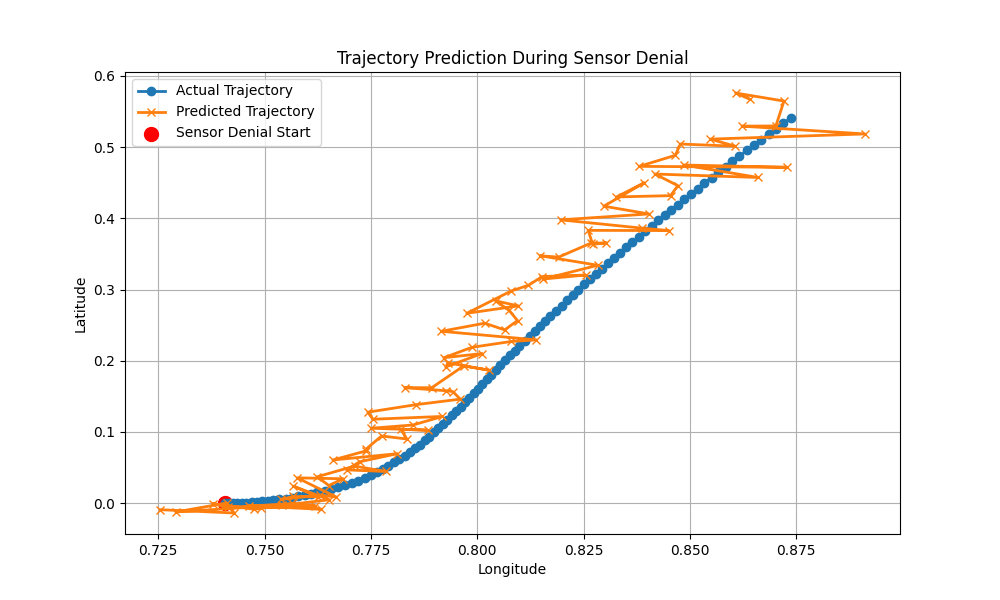
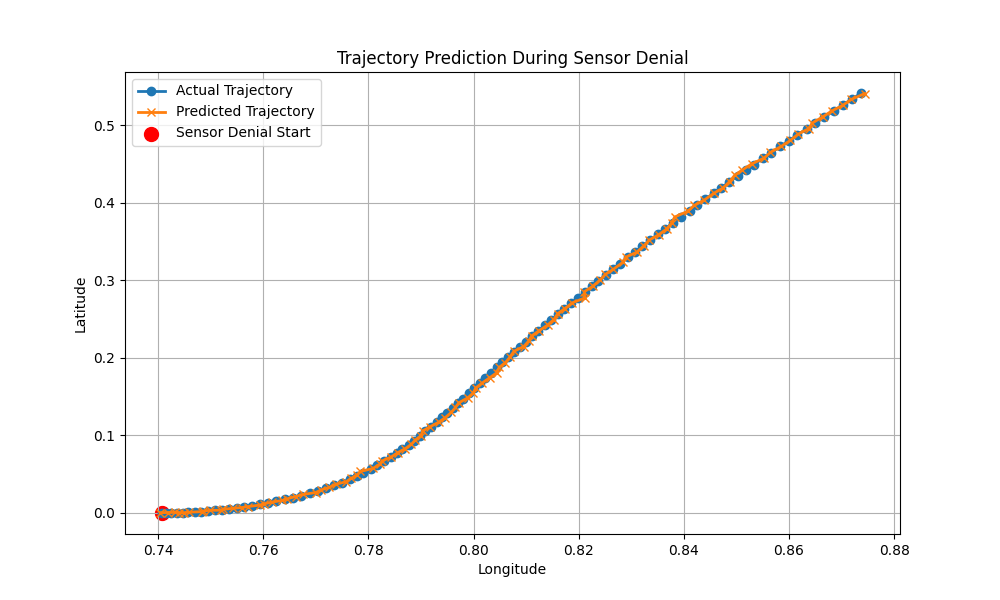
Add files via upload

diff --git a/train_lstm.py b/train_lstm.py
@@ -119,7 +119,7 @@ optimizer = torch.optim.Adam(
 # TRAINING LOOP
 # =========================
 
-epochs = 50
+epochs = 1000
 
 for epoch in range(epochs):
 